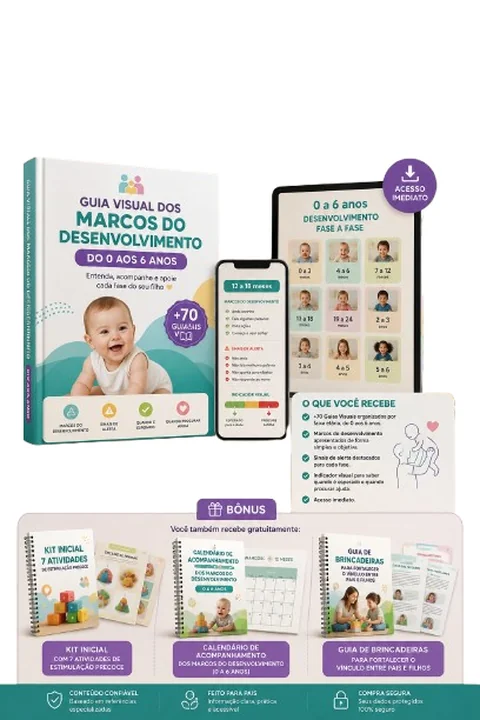
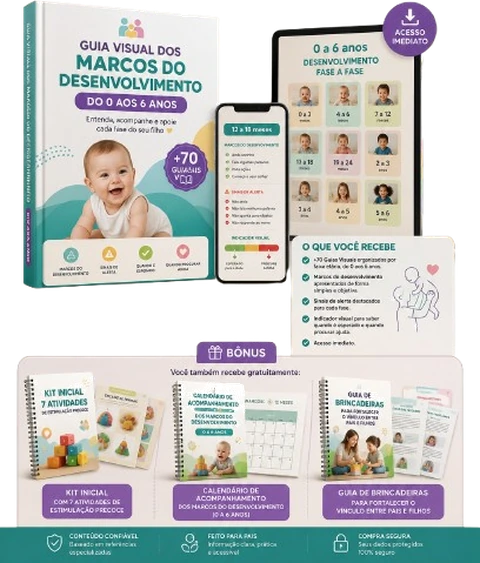
fix: remove fundo branco e moldura retangular do mockup do Hero deixando o bundle 3D flutuando naturalmente no fundo do site

diff --git a/index.html b/index.html
@@ -79,8 +79,8 @@
     .hero__sub{font-size:clamp(15px, 4.2vw, 18px);color:#4A4A4A;line-height:1.65;margin-bottom:28px;max-width:640px}
     
     /* MOCKUP DO PRODUTO (3D TANGÍVEL COM ESPAÇO) */
-    .hero__img-wrap{width:100%;max-width:440px;margin:0 auto;border-radius:var(--radius-md);overflow:hidden;box-shadow:var(--shadow-lg);background:#fff;padding:10px;border:1px solid rgba(255,255,255,0.9)}
-    .hero__img{width:100%;height:auto;display:block;border-radius:12px}
+    .hero__img-wrap{width:100%;max-width:460px;margin:0 auto}
+    .hero__img{width:100%;height:auto;display:block;filter:drop-shadow(0 16px 32px rgba(0,0,0,0.12))}
 
     /* === BOTÃO CTA DE ALTA CONVERSÃO (VERDE CHECKOUT) === */
     .btn-cta{display:flex;flex-direction:column;align-items:center;justify-content:center;width:100%;max-width:480px;margin:0 auto;background:linear-gradient(135deg, #16A34A 0%, #15803D 100%);color:#fff;text-align:center;padding:20px 24px;border-radius:var(--radius-md);font-size:19px;font-weight:900;letter-spacing:.3px;border:none;cursor:pointer;box-shadow:var(--shadow-btn);transition:all .2s ease;text-decoration:none;line-height:1.25;-webkit-tap-highlight-color:transparent;touch-action:manipulation}
